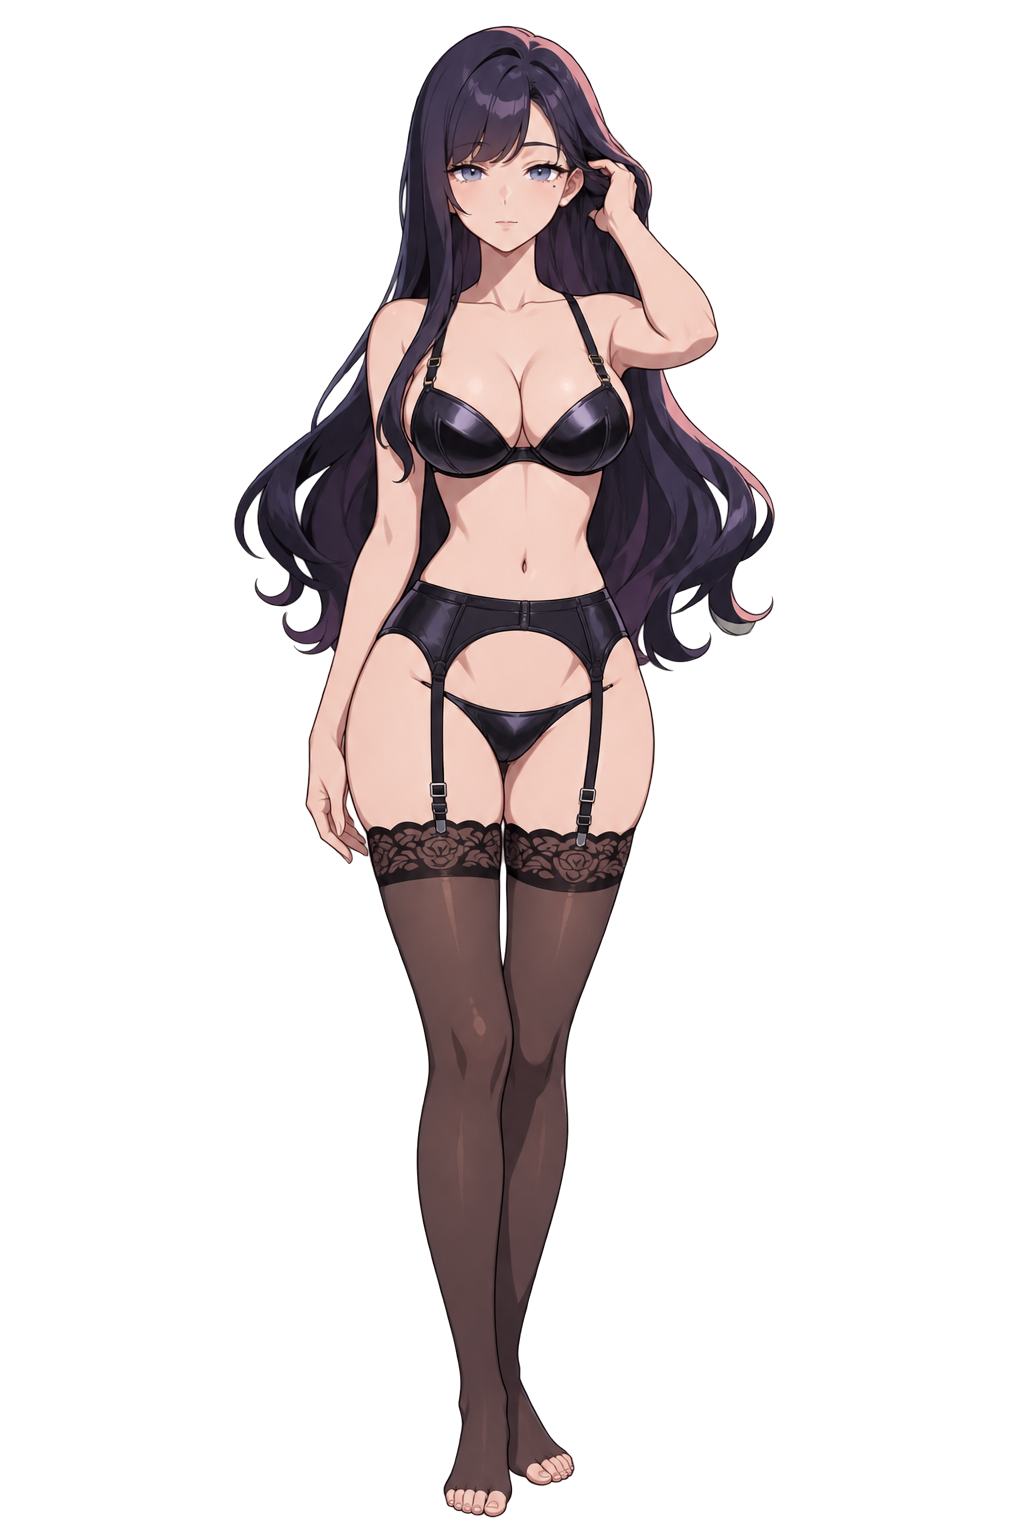
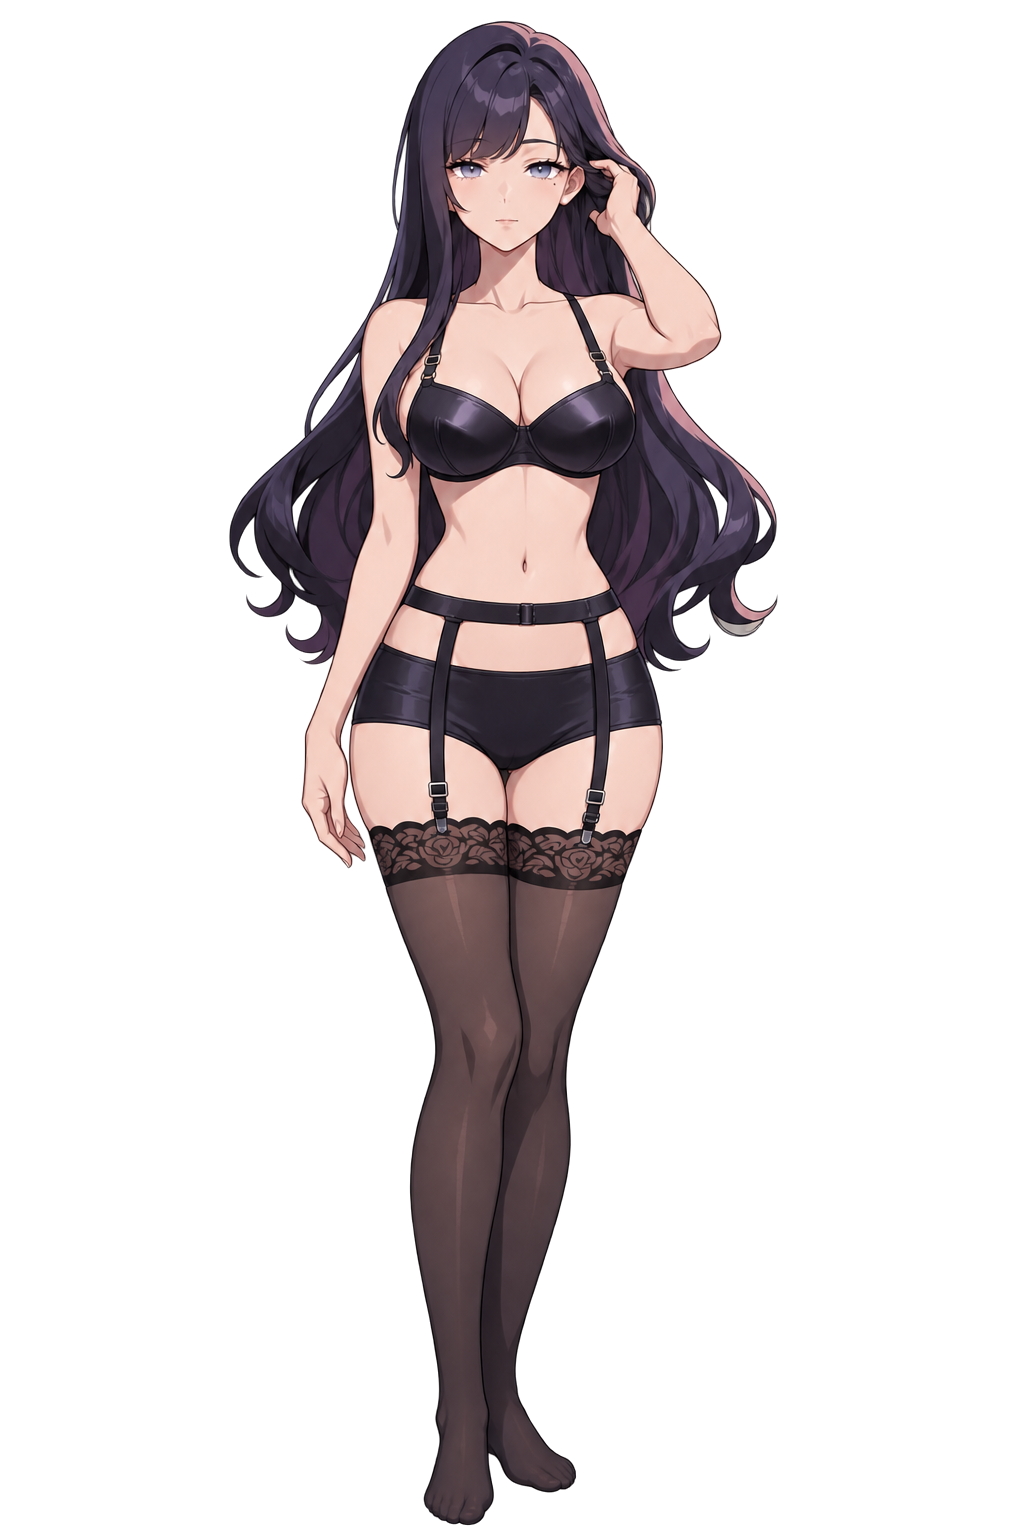
Redraw Seoyun's special set with closed-toe stockings

diff --git a/CharacterArt/candidates/intimate-wear-v001/INDEX.md b/CharacterArt/candidates/intimate-wear-v001/INDEX.md
@@ -12,5 +12,5 @@
 | [yujin_lingerie_special.png](yujin_lingerie_special.png) | 차유진 | 특별한 날 | [yujin 마스터](../heroine-masters-v001/yujin_office_pose01_neutral_v001.png) | 0 | — |
 | [yujin_lingerie_home.png](yujin_lingerie_home.png) | 차유진 | 집 | [yujin 마스터](../heroine-masters-v001/yujin_office_pose01_neutral_v001.png) | 0 | — |
 | [seoyun_lingerie_everyday.png](seoyun_lingerie_everyday.png) | 한서윤 | 평소 | [seoyun 마스터](../heroine-masters-v001/seoyun_office_pose01_neutral_v001.png) | 0 | — |
-| [seoyun_lingerie_special.png](seoyun_lingerie_special.png) | 한서윤 | 특별한 날 | [seoyun 마스터](../heroine-masters-v001/seoyun_office_pose01_neutral_v001.png) | 0 | — |
+| [seoyun_lingerie_special.png](seoyun_lingerie_special.png) | 한서윤 | 특별한 날 | [seoyun 마스터](../heroine-masters-v001/seoyun_office_pose01_neutral_v001.png) | 1 | 하의 옆선·가터 연결·스타킹 발끝 수정 |
 | [seoyun_lingerie_home.png](seoyun_lingerie_home.png) | 한서윤 | 집 | [seoyun 마스터](../heroine-masters-v001/seoyun_office_pose01_neutral_v001.png) | 0 | — |
